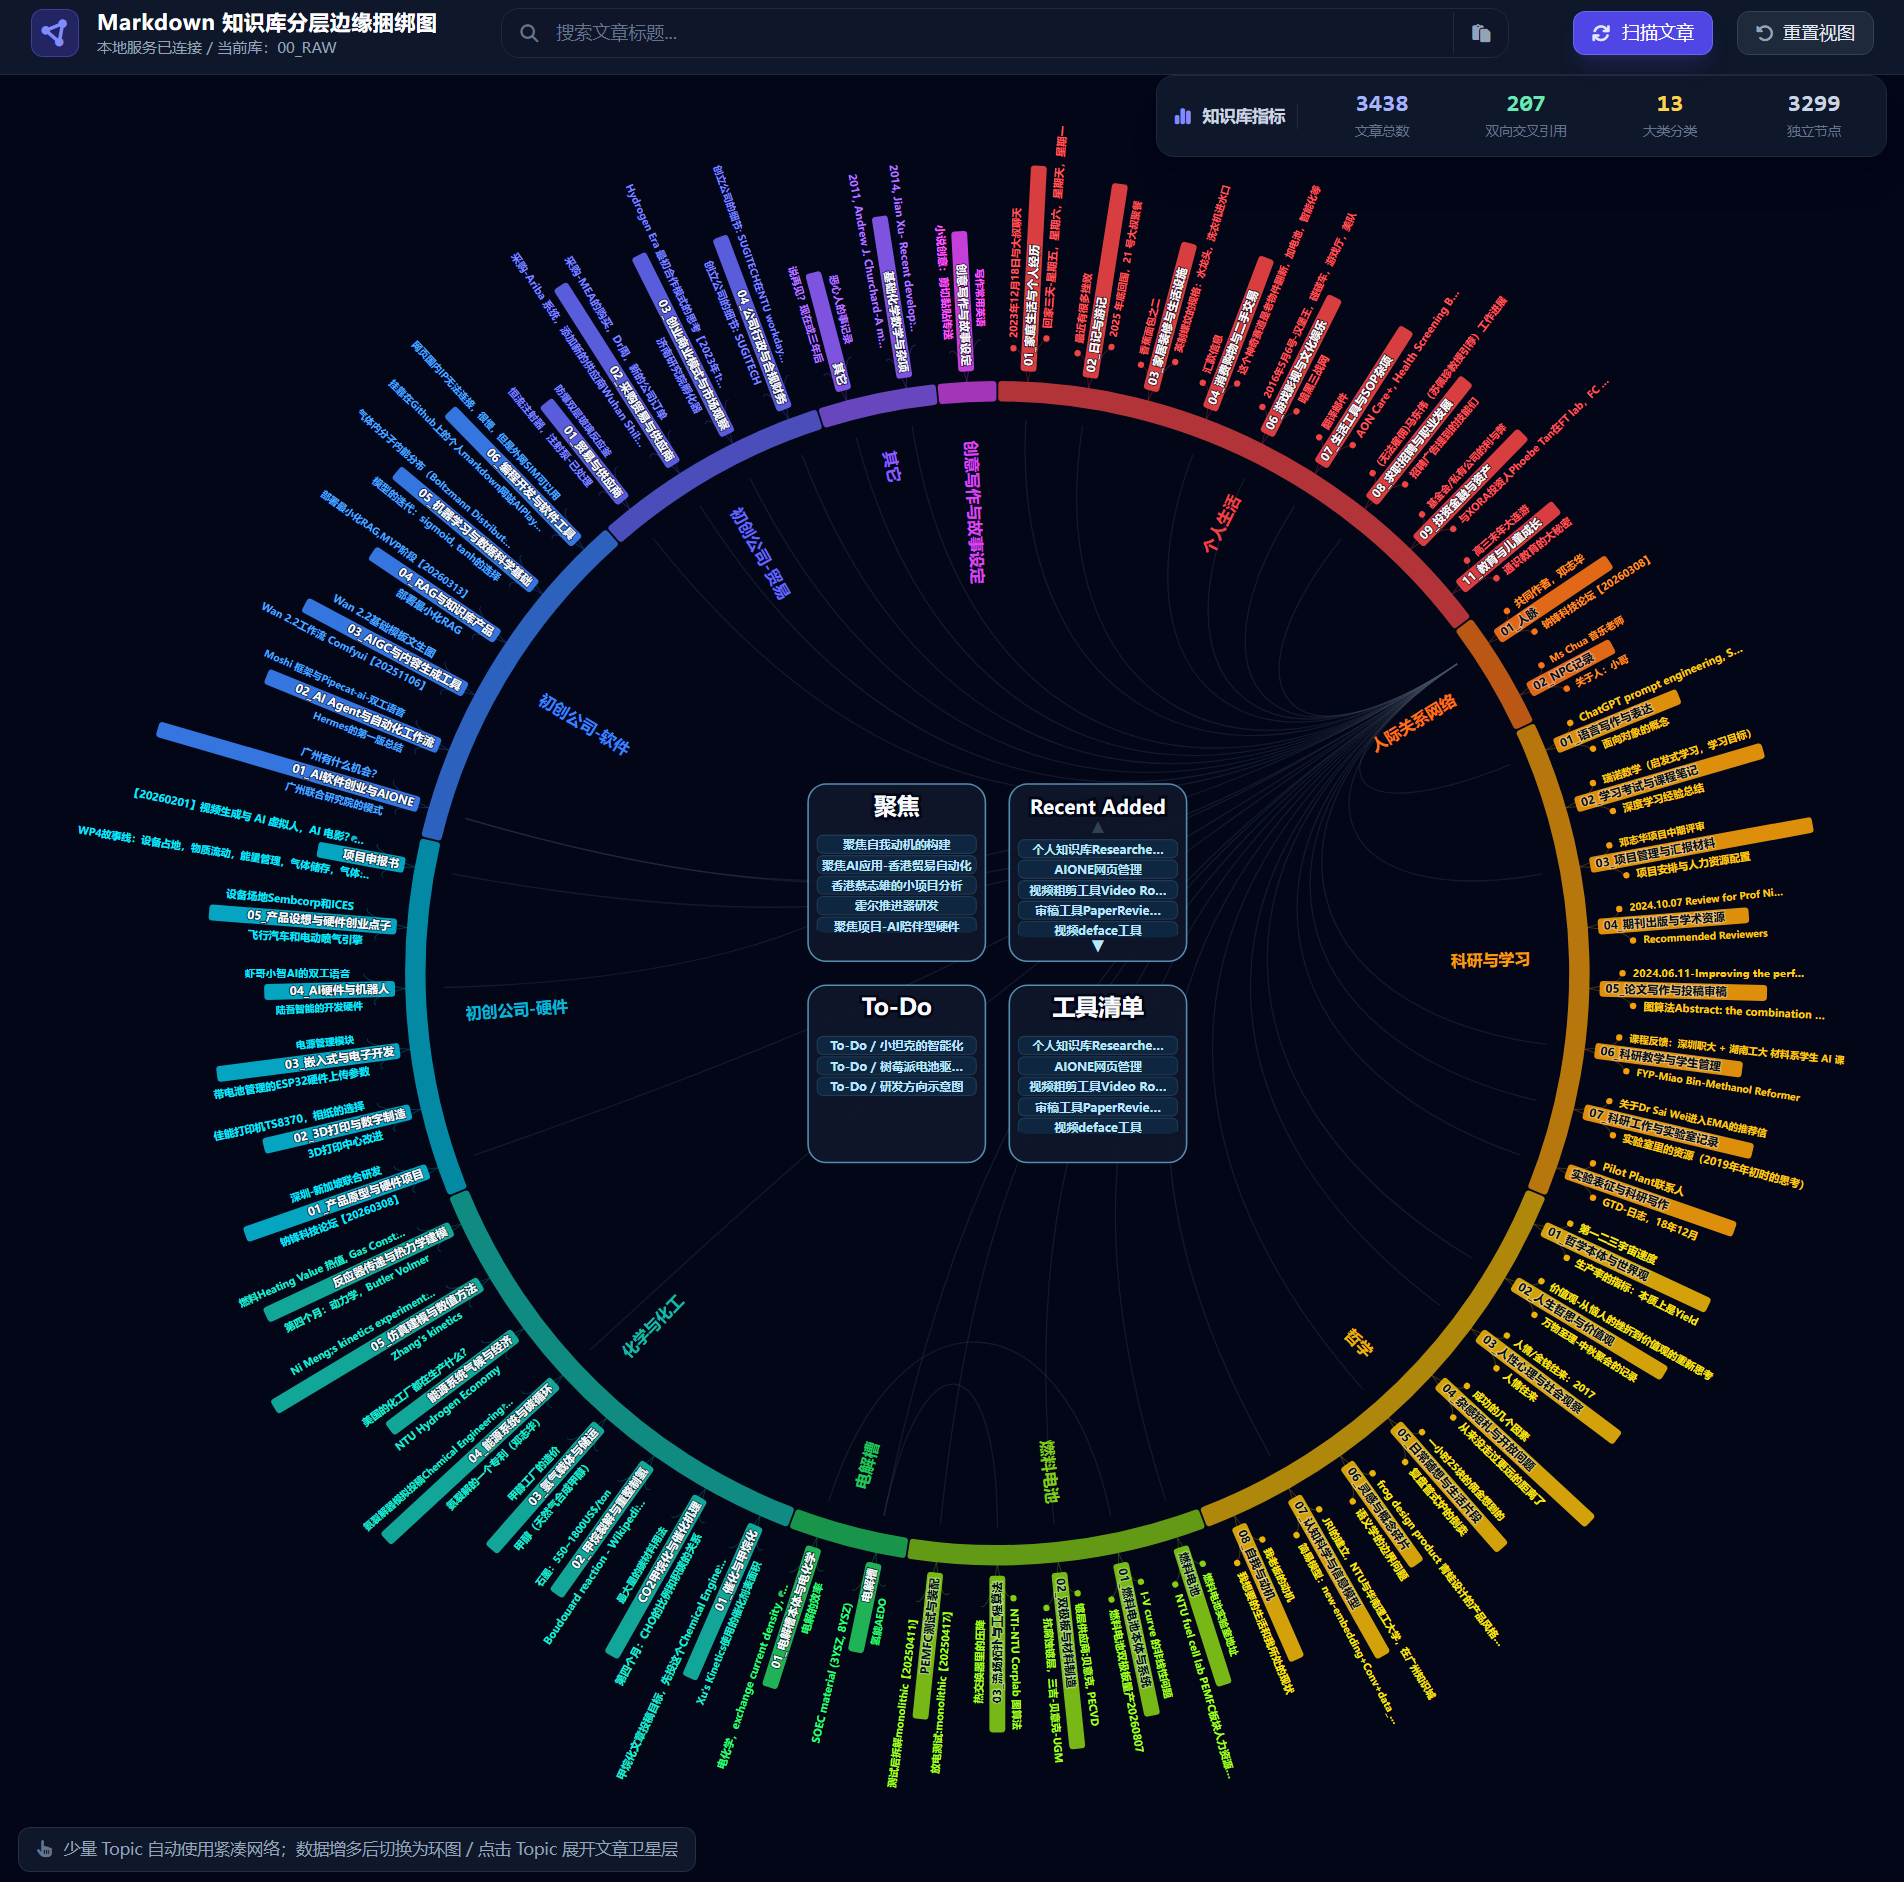
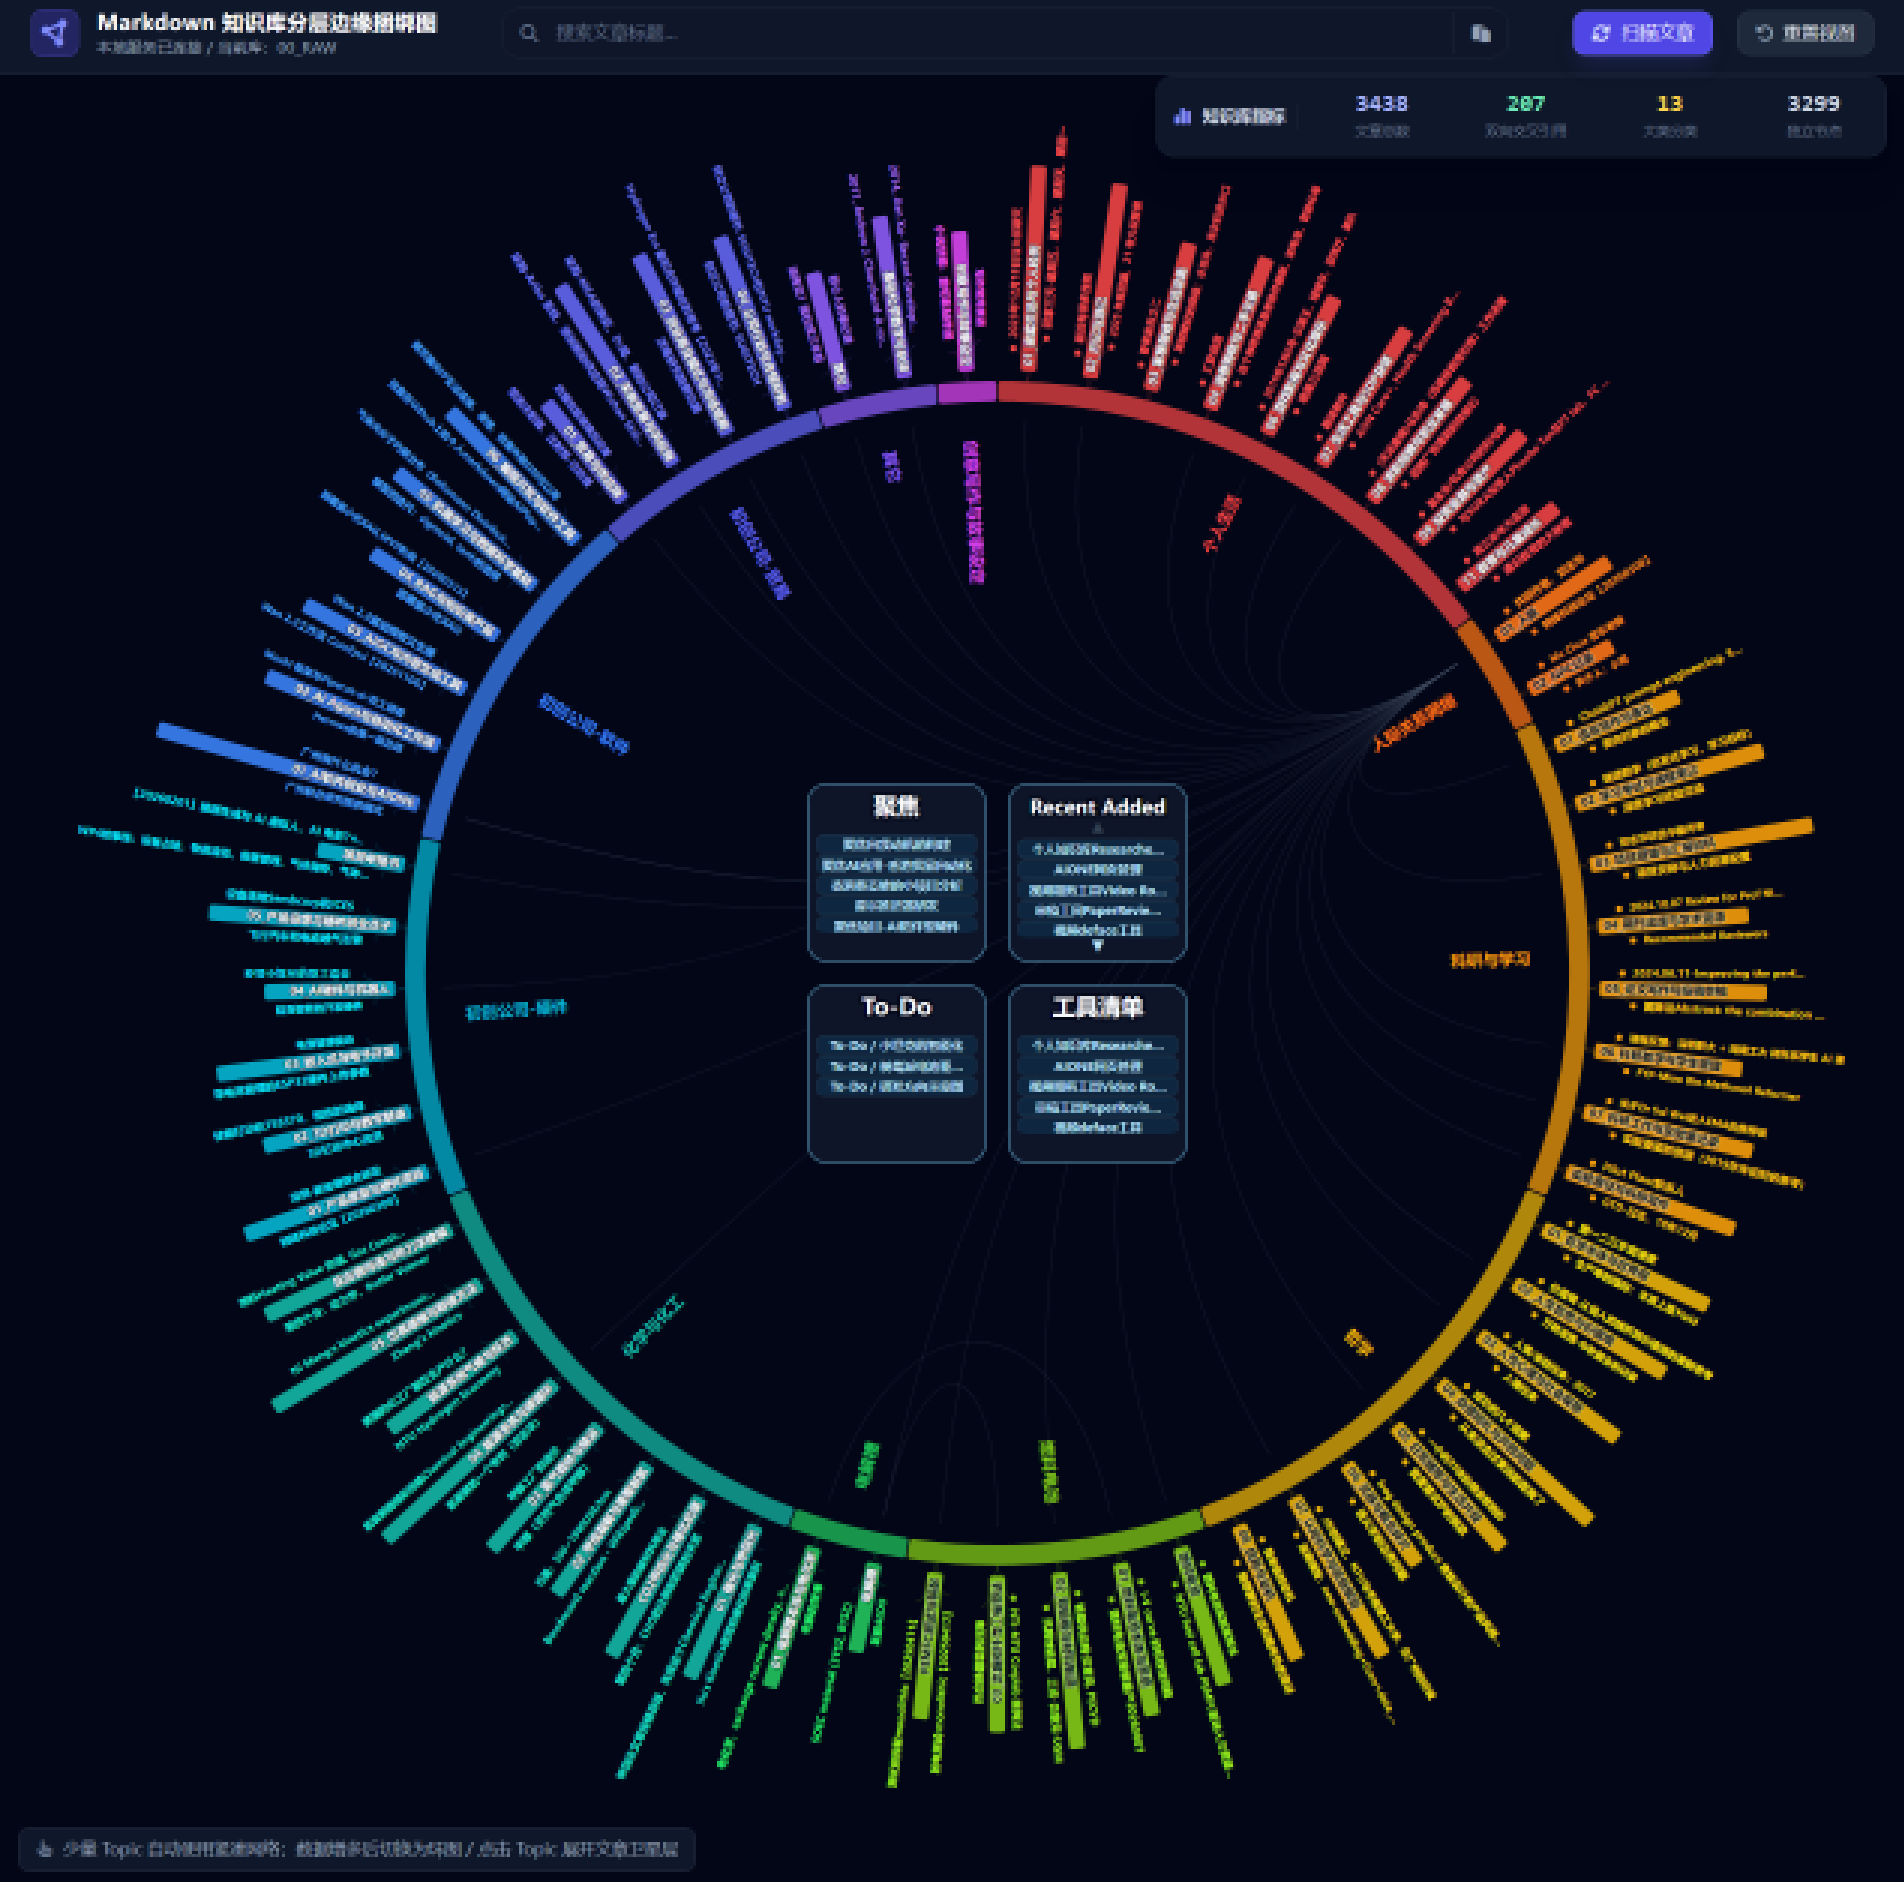
Hide personal knowledge base details

diff --git a/site/projects/personal-knowledge-base/index.html b/site/projects/personal-knowledge-base/index.html
@@ -1637,7 +1637,7 @@
 
 
 <h1 id="personal-knowledge-base-managed-by-ai-agents">Personal Knowledge Base Managed by AI Agents</h1>
-<video autoplay muted loop playsinline controls preload="metadata" style="display:block; width:100%; max-height:720px; object-fit:contain; margin:0 auto 2rem; border-radius:14px; background:#050816;">
+<video autoplay muted loop playsinline preload="auto" tabindex="-1" draggable="false" oncontextmenu="return false;" aria-label="Personal knowledge base demonstration" style="display:block; width:1896px; max-width:100%; height:auto; margin:0 auto 2rem; border-radius:14px; background:#050816; pointer-events:none; user-select:none;">
   <source src="../../assets/videos/personal-knowledge-base-demo.mp4" type="video/mp4">
   Your browser does not support embedded video playback.
 </video>

diff --git a/docs/projects/personal-knowledge-base.md b/docs/projects/personal-knowledge-base.md
@@ -1,6 +1,6 @@
 # Personal Knowledge Base Managed by AI Agents
 
-<video autoplay muted loop playsinline controls preload="metadata" style="display:block; width:100%; max-height:720px; object-fit:contain; margin:0 auto 2rem; border-radius:14px; background:#050816;">
+<video autoplay muted loop playsinline preload="auto" tabindex="-1" draggable="false" oncontextmenu="return false;" aria-label="Personal knowledge base demonstration" style="display:block; width:1896px; max-width:100%; height:auto; margin:0 auto 2rem; border-radius:14px; background:#050816; pointer-events:none; user-select:none;">
   <source src="../../assets/videos/personal-knowledge-base-demo.mp4" type="video/mp4">
   Your browser does not support embedded video playback.
 </video>
